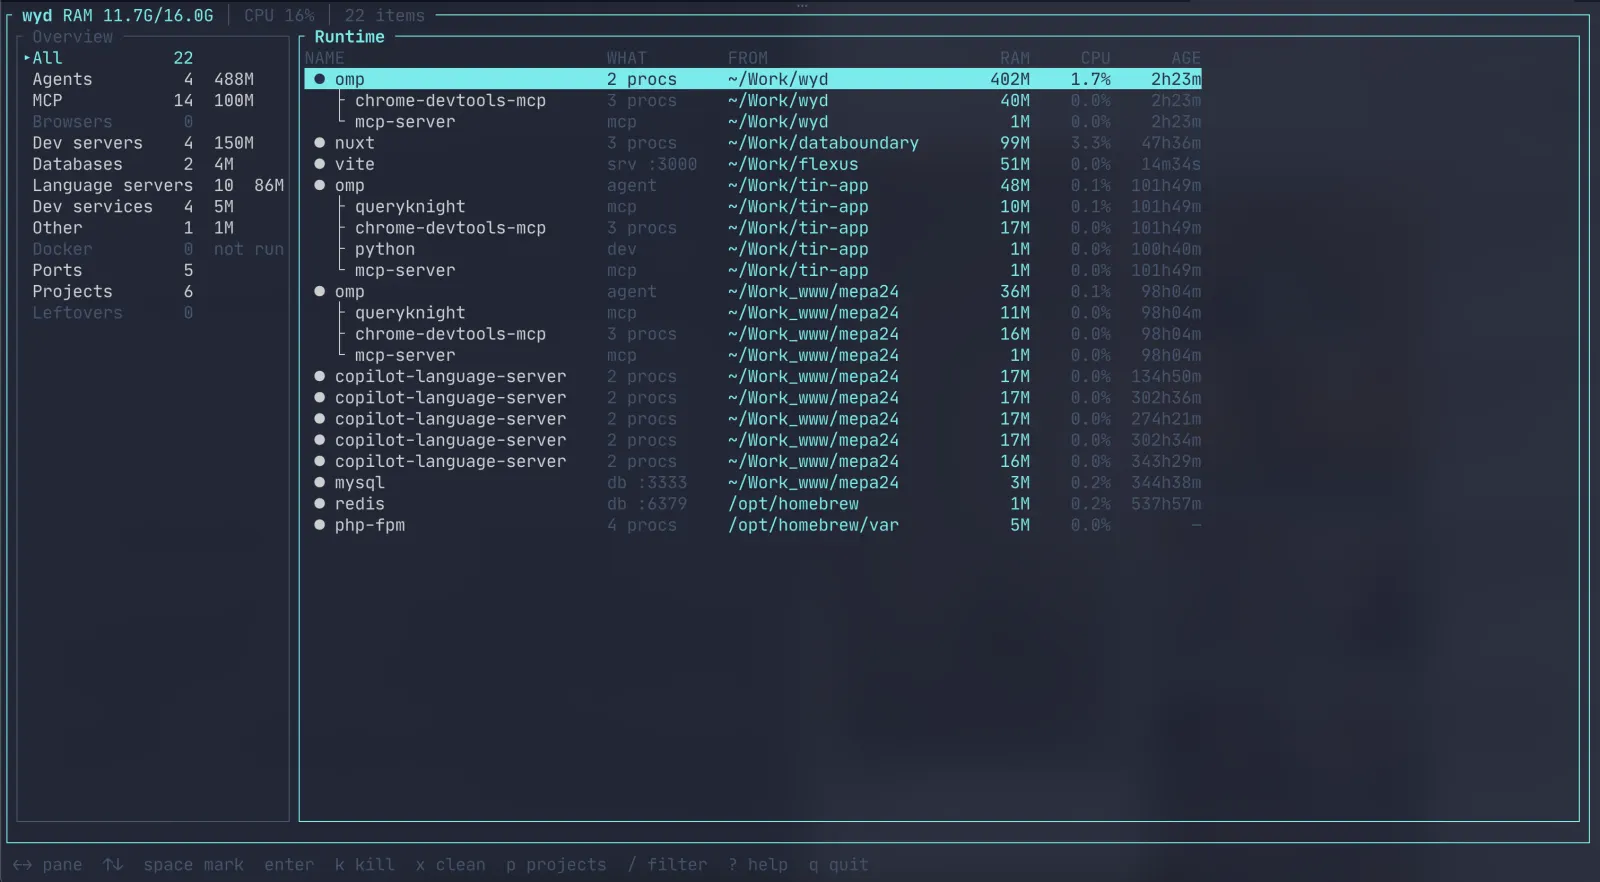
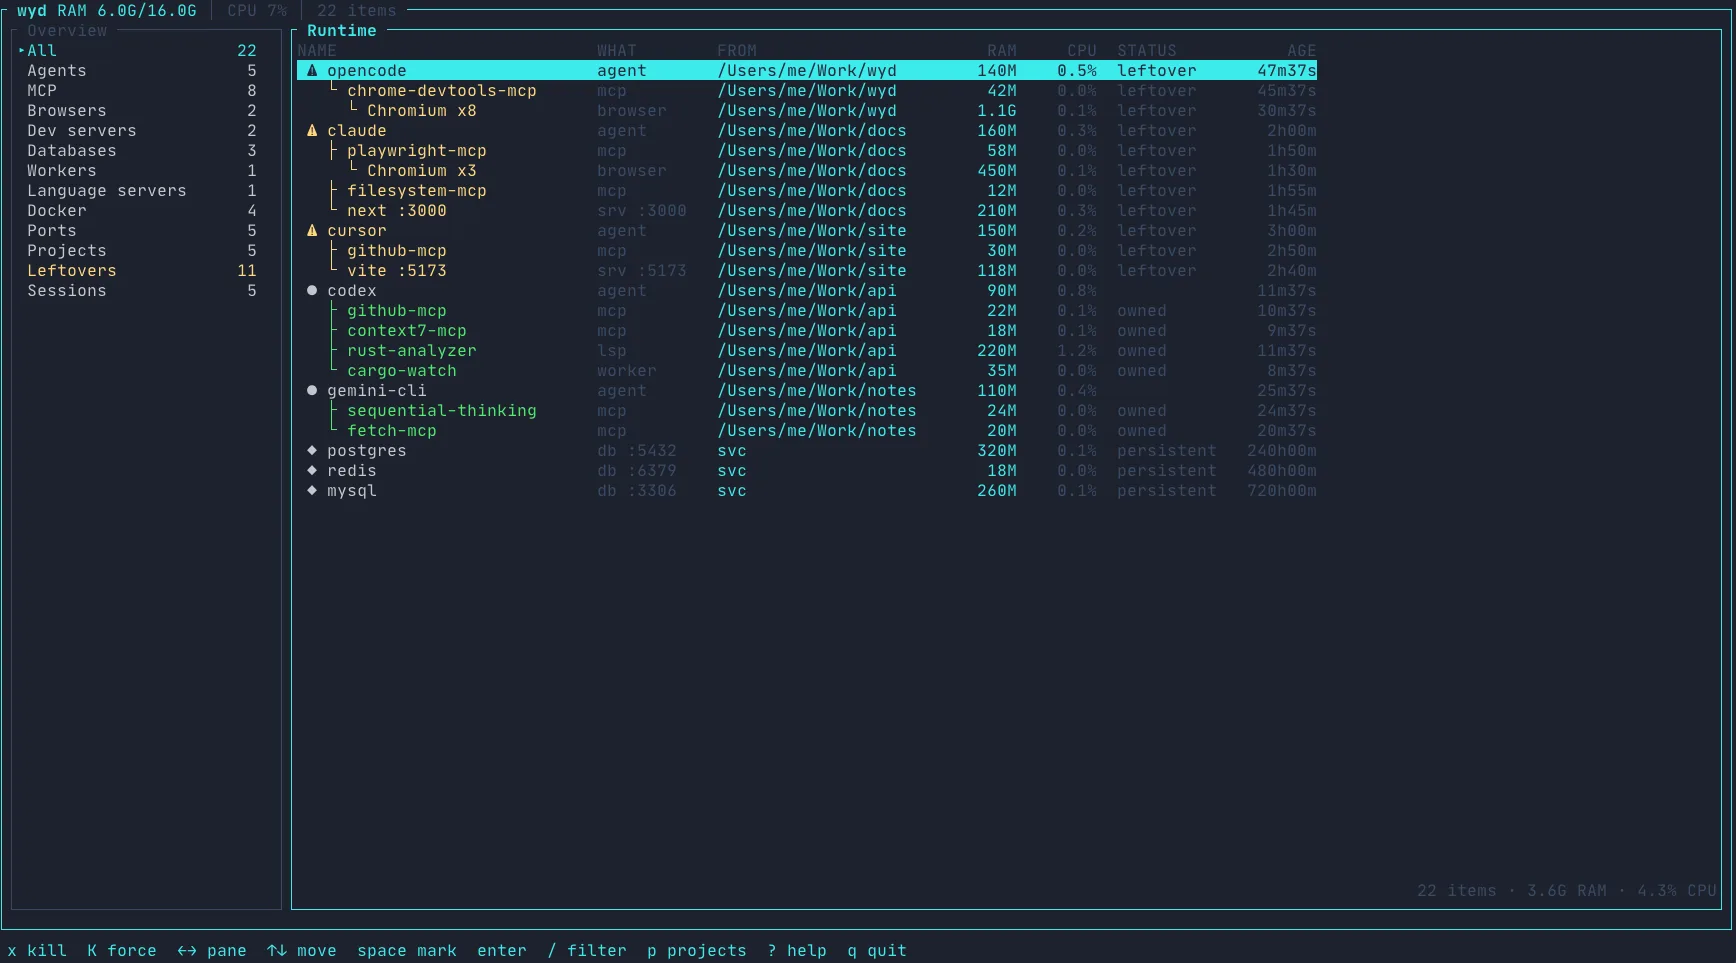
feat: new screenshots

Changed region(s): [[0.0, 0.0, 1.0, 1.0]]

diff --git a/README.md b/README.md
@@ -40,7 +40,7 @@ still prints a hint if a formula bump is ever lagging.
 Binaries: [GitHub Releases](https://github.com/oxyplay/wyd/releases). From a clone: `cargo install --path .`
 
 
-![wyd TUI — agents, MCP, Vite, and project folders](docs/screenshot.webp)
+![wyd TUI (wyd --demo) — 5 agent sessions, MCP servers, dev servers, databases and Docker](docs/screenshot.webp)
 
 OS daemons stay hidden. Desktop Chrome stays hidden. Agent-spawned Chromium does not.
 
